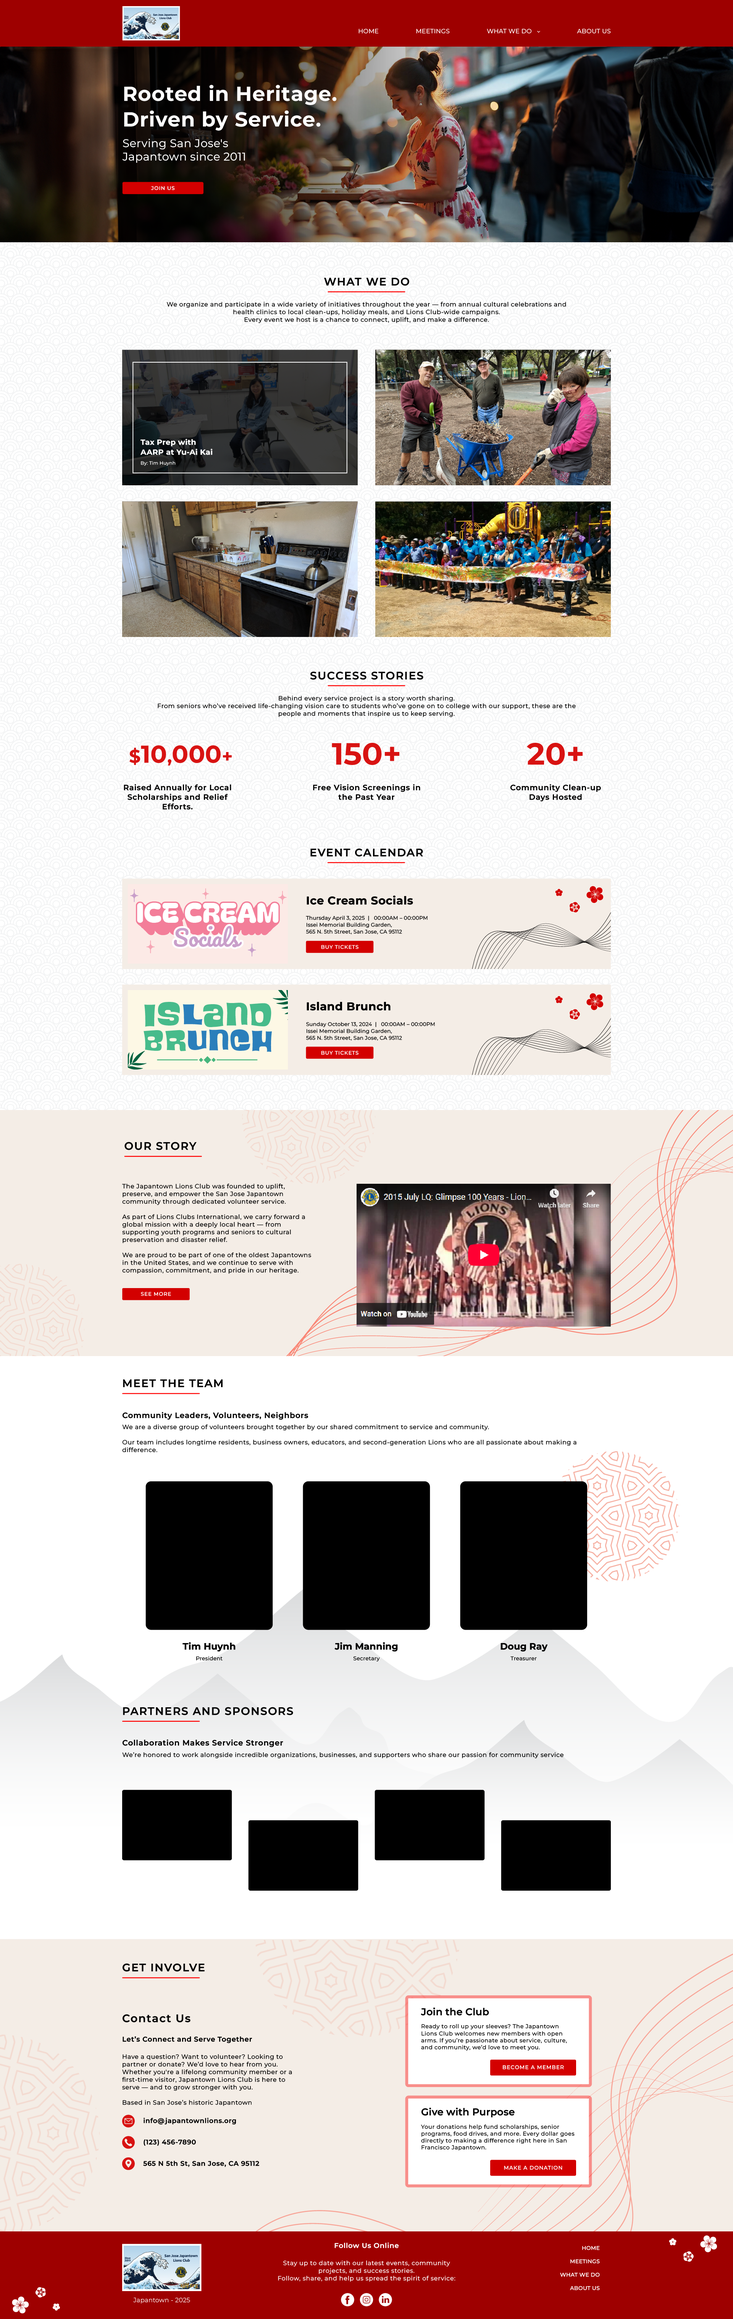
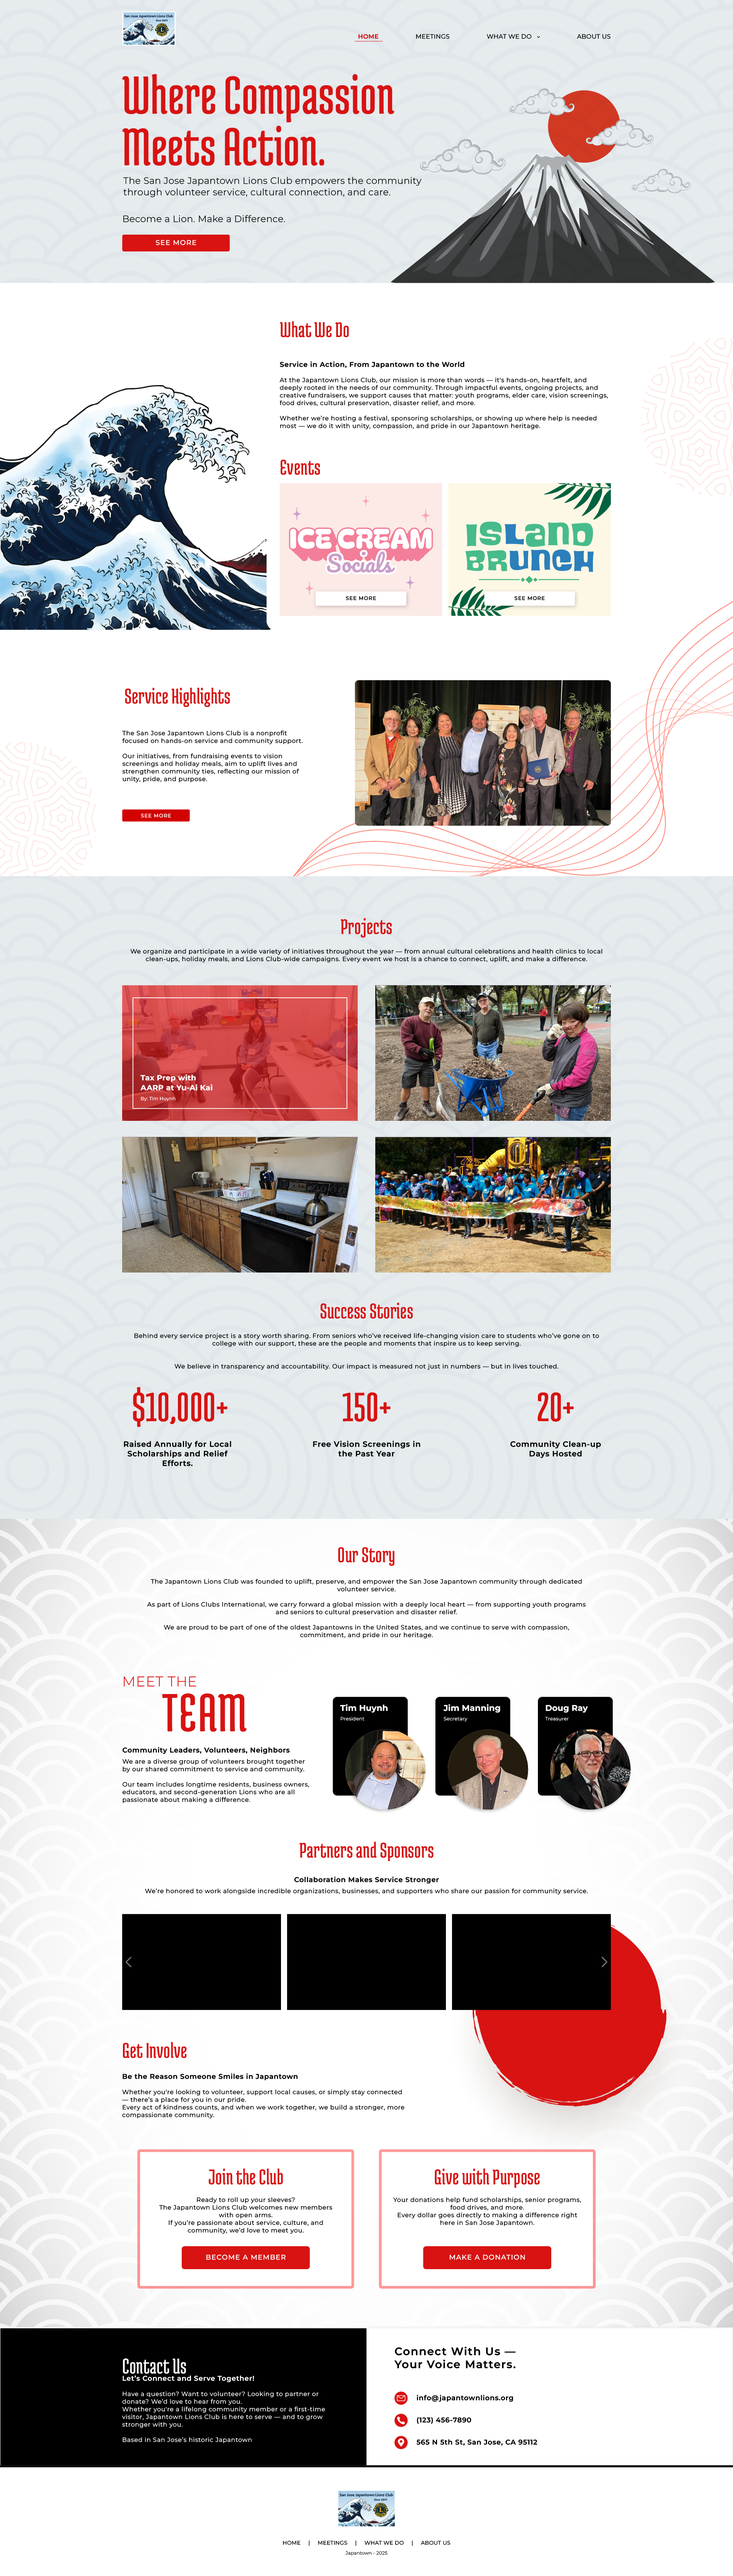
s

diff --git a/JapanTownDesign.html b/JapanTownDesign.html
@@ -52,8 +52,8 @@
 </head>
 <body onload="showImage('sample1')">
     <div class="topbar">
-        <!-- <button class="btn btn-primary btn-custom" onclick="showImage('sample1')">Web Design 1</button> -->
-        <!-- <button class="btn btn-success btn-custom" onclick="showImage('sample2')">Web Design 2</button> -->
+        <button class="btn btn-primary btn-custom" onclick="showImage('sample1')">Home Page</button>
+        <button class="btn btn-success btn-custom" onclick="showImage('sample2')">What We Do Page</button>
         <!-- <button class="btn btn-warning btn-custom" onclick="showImage('sample3')">Web Design 3</button> -->
     </div>
     <div class="content">
